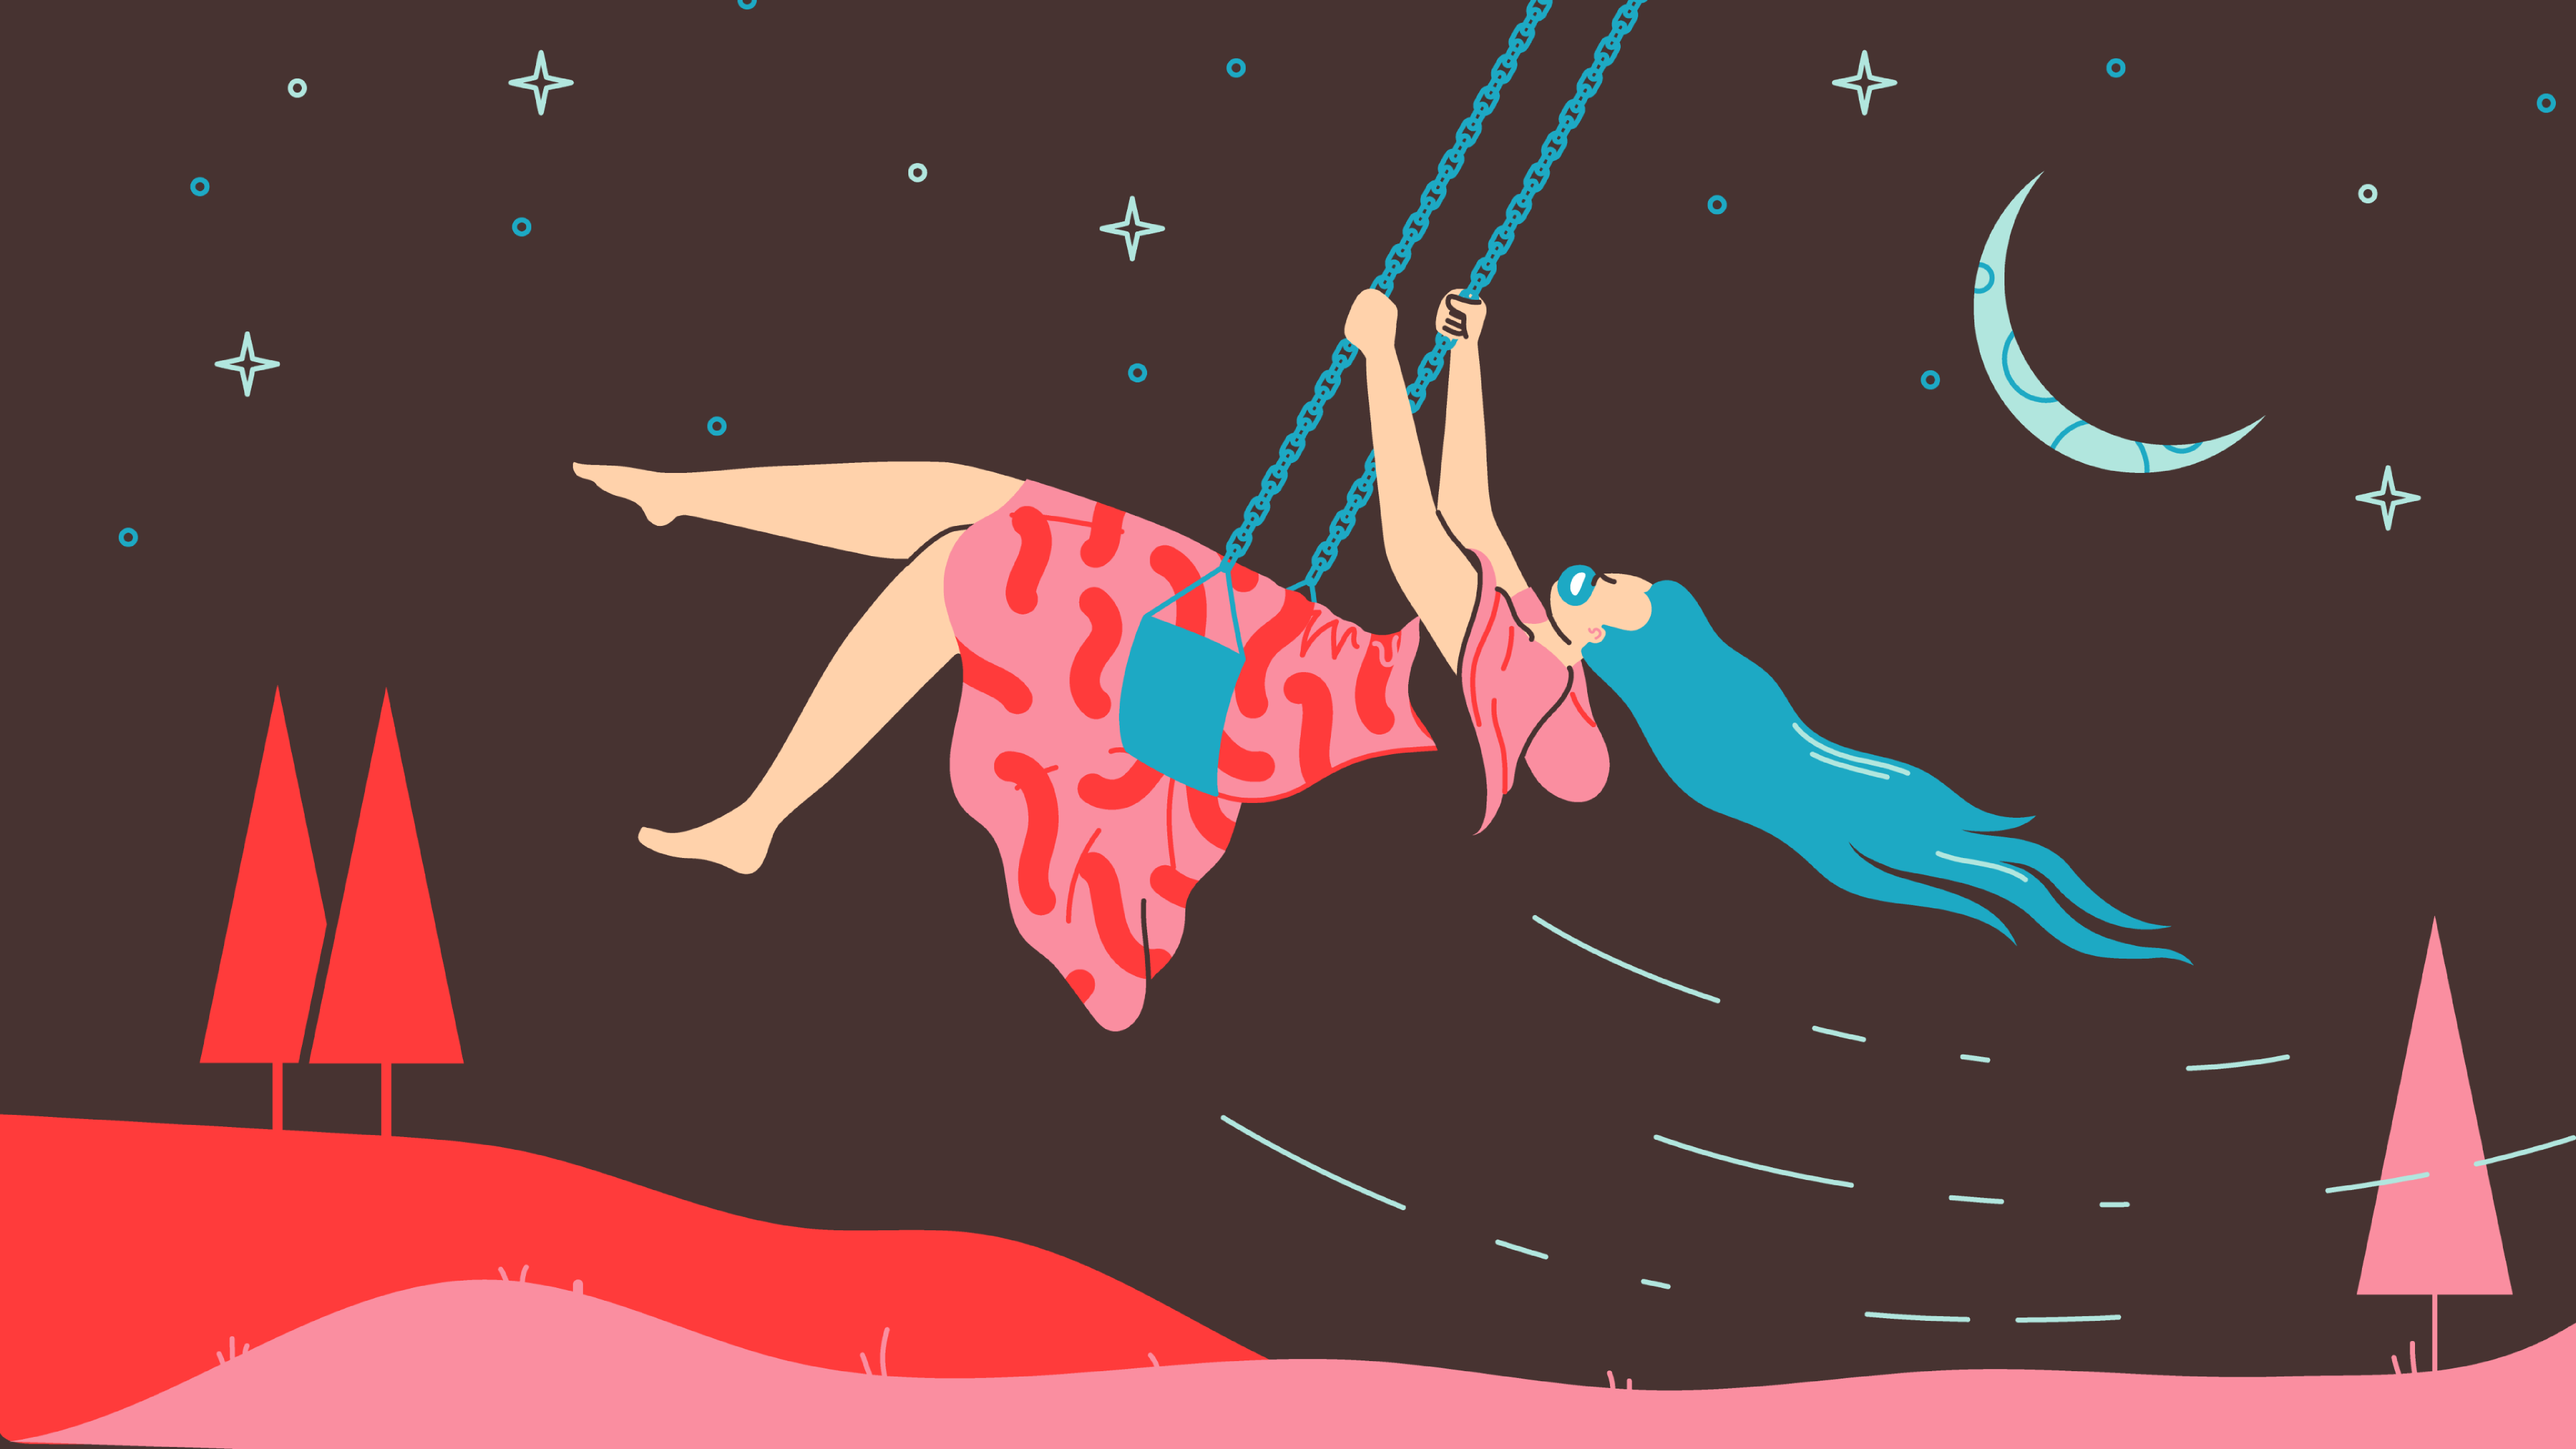
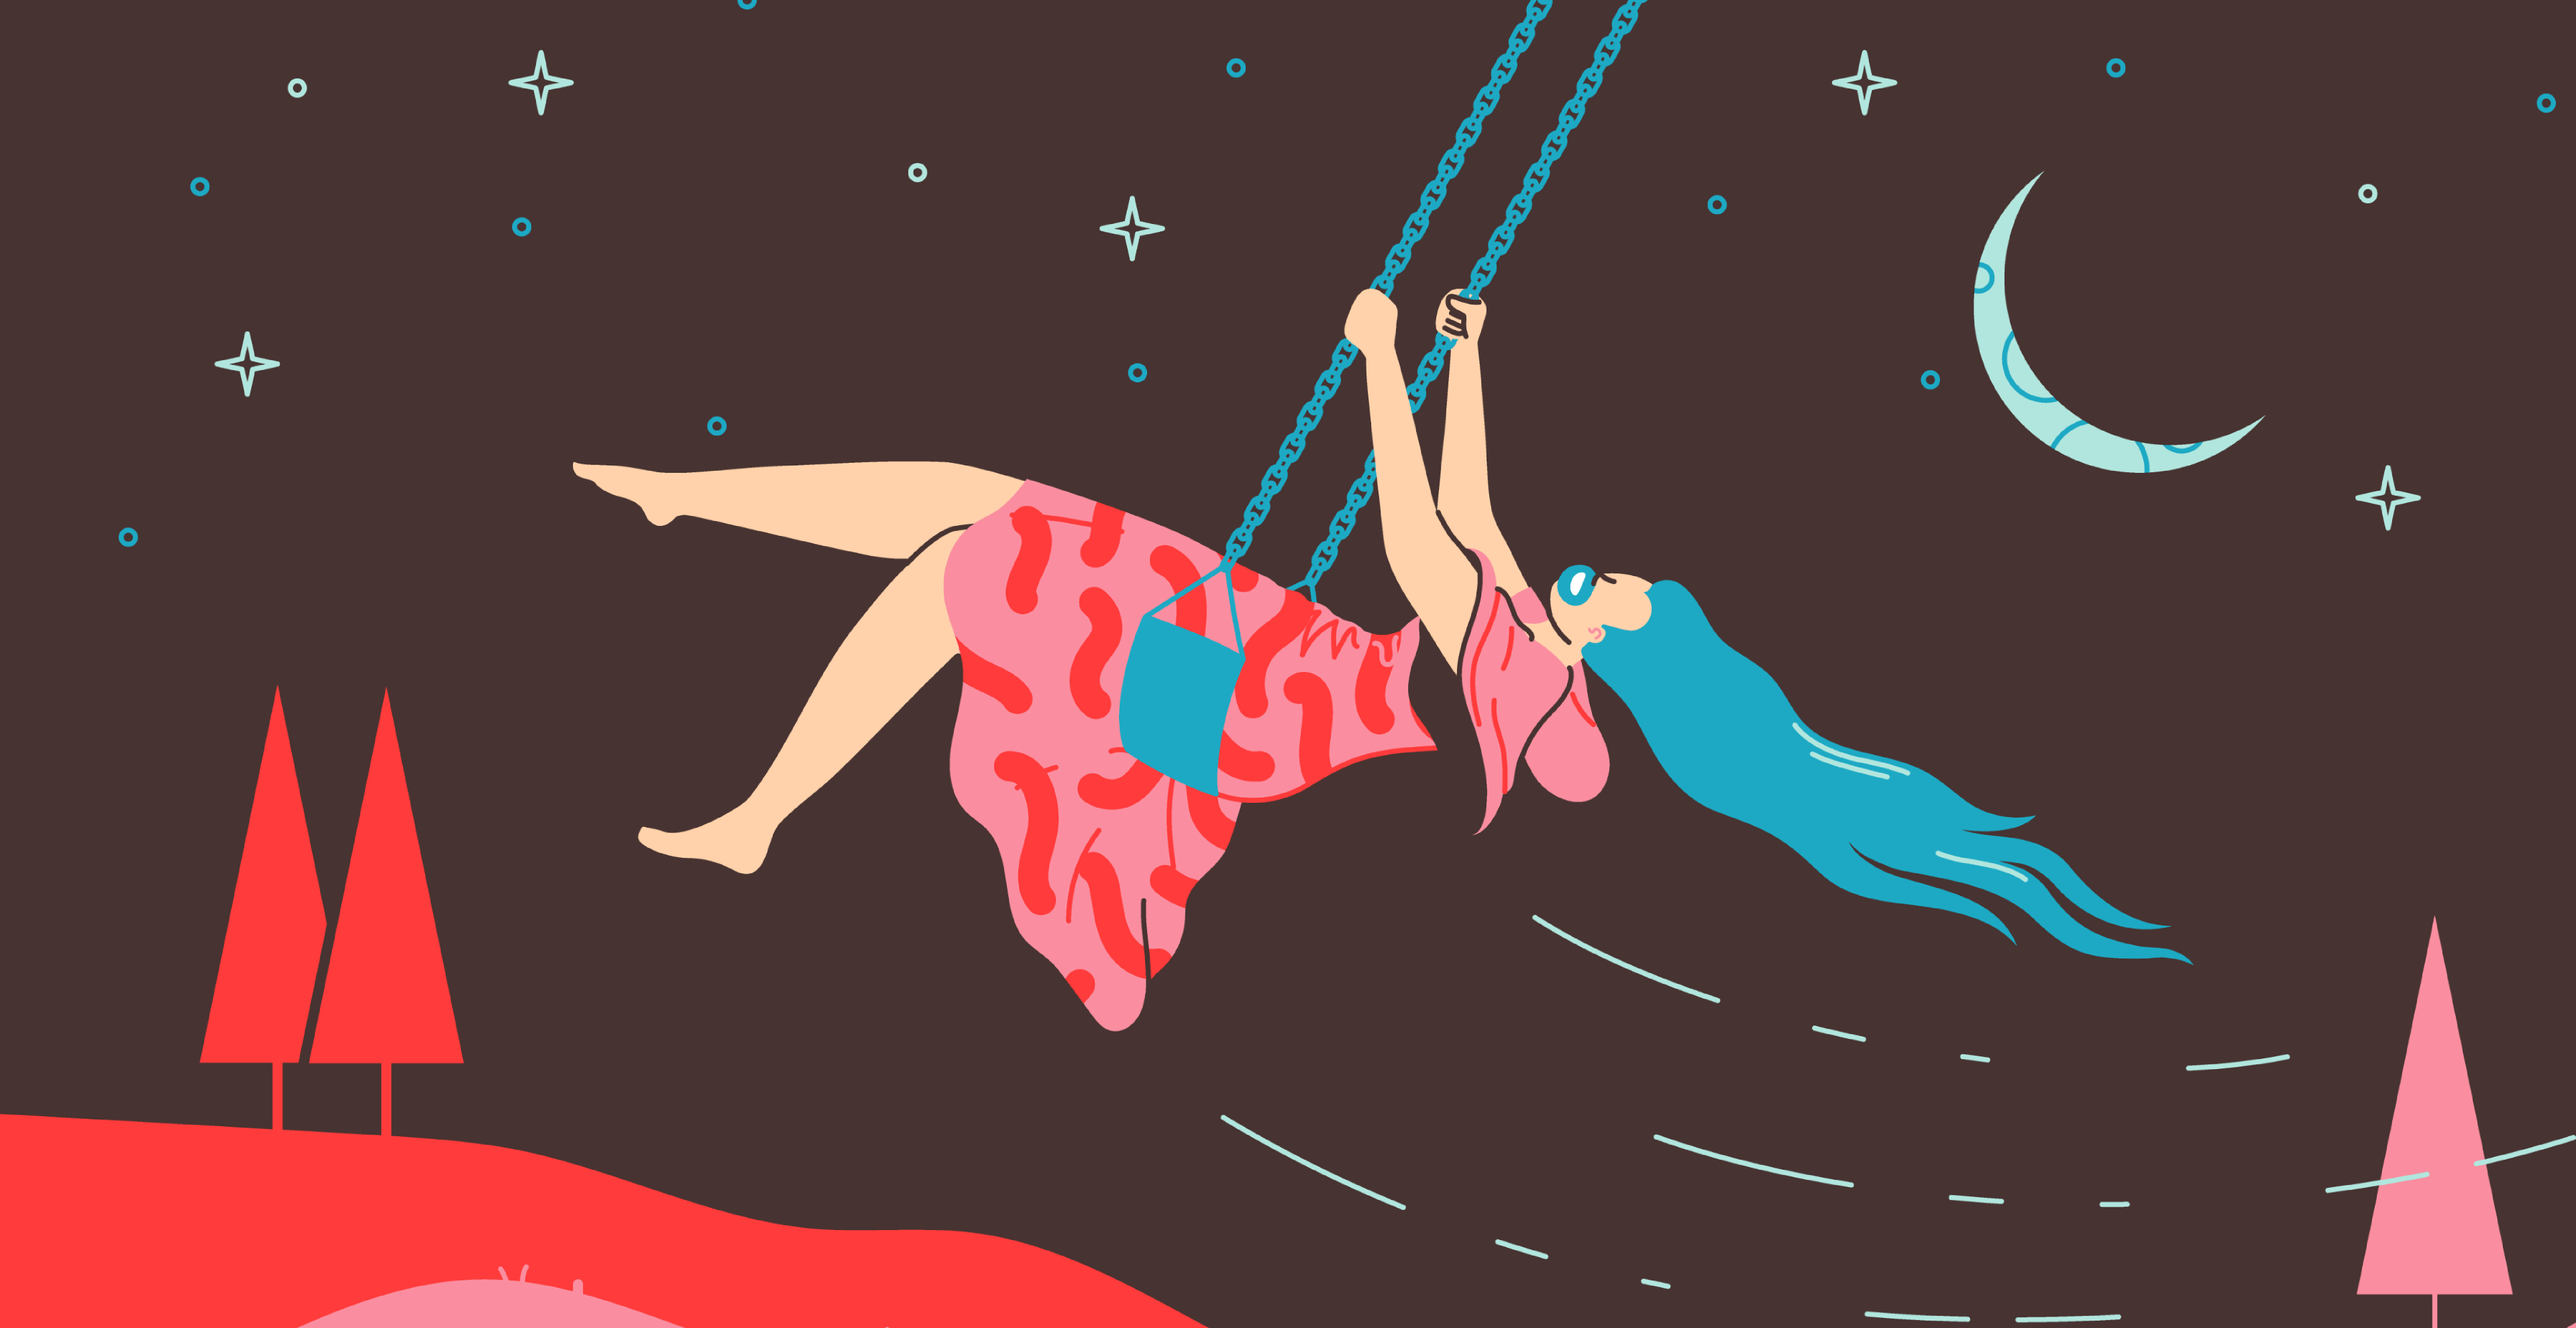
Styling improvements

diff --git a/views/home.html b/views/home.html
@@ -7,8 +7,10 @@
           type="image/x-icon"/>
 
     <style>
+        @import url('https://fonts.googleapis.com/css?family=Alata');
+
         body {
-            font-family: -apple-system, BlinkMacSystemFont, 'Segoe UI', Roboto, Oxygen, Ubuntu, Cantarell, 'Open Sans', 'Helvetica Neue', Calibri, sans-serif;
+            font-family: 'Alata', -apple-system, BlinkMacSystemFont, 'Segoe UI', Roboto, Oxygen, Ubuntu, Cantarell, 'Open Sans', 'Helvetica Neue', Calibri, sans-serif;
             height: 100%;
             box-sizing: border-box;
             padding: 20px;
@@ -16,9 +18,9 @@
             flex-direction: column;
             font-size: 1.2em;
             color: #ff5722;
-            background-image: url("https://raw.githubusercontent.com/shalvah/RemindMeOfThisTweet/master/assets/bg.png");
+            background-image: url("../assets/bg.png");
             background-repeat: no-repeat;
-            background-color: #fa8ea0;
+            background-color: #473331;
             background-attachment: fixed;
             background-position: center center;
             background-size: cover;
